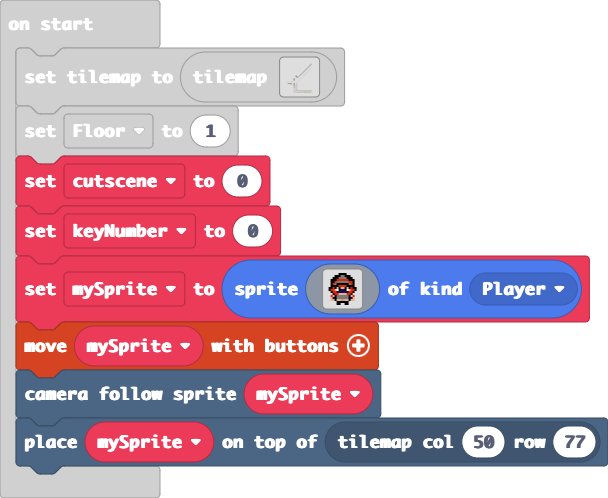
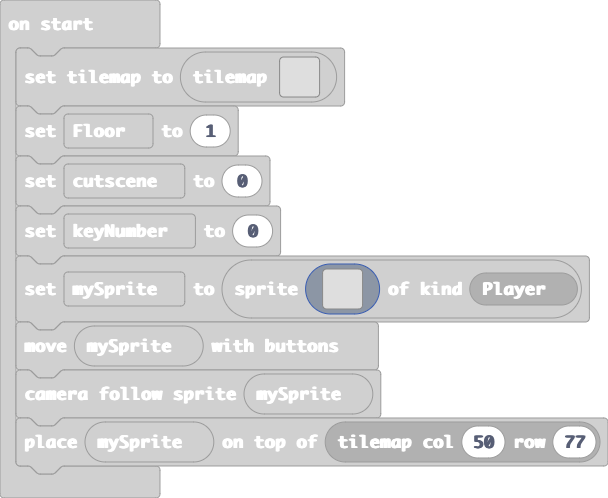
Update main.blocks, main.ts, tilemap.g.jres, tilemap.g.ts

diff --git a/tilemap.g.ts b/tilemap.g.ts
@@ -7,17 +7,7 @@ namespace myTiles {
     //% fixedInstance jres blockIdentity=images._tile
     export const tile11 = image.ofBuffer(hex``);
     //% fixedInstance jres blockIdentity=images._tile
-    export const tile16 = image.ofBuffer(hex``);
-    //% fixedInstance jres blockIdentity=images._tile
-    export const tile17 = image.ofBuffer(hex``);
-    //% fixedInstance jres blockIdentity=images._tile
-    export const tile18 = image.ofBuffer(hex``);
-    //% fixedInstance jres blockIdentity=images._tile
-    export const tile19 = image.ofBuffer(hex``);
-    //% fixedInstance jres blockIdentity=images._tile
     export const tile20 = image.ofBuffer(hex``);
-    //% fixedInstance jres blockIdentity=images._tile
-    export const tile22 = image.ofBuffer(hex``);
     //% fixedInstance jres blockIdentity=images._tile
     export const tile1 = image.ofBuffer(hex``);
     //% fixedInstance jres blockIdentity=images._tile
@@ -77,11 +67,25 @@ namespace myTiles {
     //% fixedInstance jres blockIdentity=images._tile
     export const tile38 = image.ofBuffer(hex``);
     //% fixedInstance jres blockIdentity=images._tile
+    export const tile21 = image.ofBuffer(hex``);
+    //% fixedInstance jres blockIdentity=images._tile
+    export const tile41 = image.ofBuffer(hex``);
+    //% fixedInstance jres blockIdentity=images._tile
     export const tile39 = image.ofBuffer(hex``);
     //% fixedInstance jres blockIdentity=images._tile
     export const tile40 = image.ofBuffer(hex``);
     //% fixedInstance jres blockIdentity=images._tile
-    export const tile21 = image.ofBuffer(hex``);
+    export const tile17 = image.ofBuffer(hex``);
+    //% fixedInstance jres blockIdentity=images._tile
+    export const tile22 = image.ofBuffer(hex``);
+    //% fixedInstance jres blockIdentity=images._tile
+    export const tile18 = image.ofBuffer(hex``);
+    //% fixedInstance jres blockIdentity=images._tile
+    export const tile19 = image.ofBuffer(hex``);
+    //% fixedInstance jres blockIdentity=images._tile
+    export const tile16 = image.ofBuffer(hex``);
+    //% fixedInstance jres blockIdentity=images._tile
+    export const tile42 = image.ofBuffer(hex``);
 
     helpers._registerFactory("tilemap", function(name: string) {
         switch(helpers.stringTrim(name)) {
@@ -418,7 +422,7 @@ namespace myTiles {
 . . . . . . . . . . . . . . . . 
 `, [myTiles.transparency16,myTiles.tile1,myTiles.tile3,myTiles.tile4,myTiles.tile5,myTiles.tile6,myTiles.tile11], TileScale.Sixteen);
             case "level2":
[2 lines of base64/hex data omitted]
 ............................................................
 ............................................................
 ............................................................
@@ -427,58 +431,59 @@ namespace myTiles {
 ............................................................
 ............................................................
 ............................................................
+...........................................................2
+..........................................................2.
 ............................................................
 ............................................................
-............................................................
-............................................................
-............................................................
-............................................................
-............................................................
-............................................................
-............................................................
-............................................................
-............................................................
-............................................................
-............................................................
-............................................................
-............................................................
-............................................................
-............................................................
-............................................................
-............................................................
-............................................................
-............................................................
-............................................................
-............................................................
-............................................................
-............................................................
-............................................................
-............................................................
-............................................................
-............................................................
-............................................................
-............................................................
-............................................................
-............................................................
-............................................................
-............................................................
-............................................................
-............................................................
-............................................................
-............................................................
-............................................................
-............................................................
-............................................................
-............................................................
-............................................................
-............................................................
-............................................................
-............................................................
-............................................................
-............................................................
-............................................................
-............................................................
-............................................................
+.......................................................2....
+......................................................2.....
+.....................................................22.....
+....................................................2.2.....
+...................................................2........
+..................................................2........2
+.................................................2........2.
+................................................2........2..
+...............................................2........2...
+..............................................2........2....
+.............................................2........2.....
+............................................2........2......
+...........................................2........2.......
+..........................................2........2........
+.........................................2........2.........
+........................................2........2..........
+.......................................2........2...........
+......................................2........2............
+...........22........................2........2.............
+222.....222..22.....................2........2..............
+...............2...................2........2...............
+................2.................2........2................
+.................2...............2........2.................
+..................2.............2........2..................
+...................2...........2........2...................
+....................2.........2........2....................
+.....................2.......2........2.....................
+............................2........2......................
+...........................2........2.......................
+........................2.2........2........................
+.........................2........2.........................
+...............22................2..........................
+...............22...............2...........................
+...............22..............2............................
+...............22.............2.............................
+...............22............2..............................
+...............22...........2...............................
+...............22..........2................................
+.22......22....22.........2.................................
+.22......22..............2..................................
+........................2...................................
+.......................2....................................
+......................2.....................................
+....22222......22.....2.....................................
+2222............2.....2.....................................
+................2.....2.....................................
+................2.....2.....................................
+................2.....2.....................................
+..........22222.2.....2.....................................
 ................2.....2.....................................
 ................2.....2.....................................
 ................2.....2.....................................
@@ -492,14 +497,13 @@ namespace myTiles {
 ................2.....2.....................................
 ................2.....2.....................................
 ................2.....2.....................................
-................2.....2.....................................
-................2.....2.....................22.........22...
-................2.....2222222222222222222222..222222222..222
-................2...........................................
-................2...........................................
-................2...........................................
-................2.....22222222222222222222222222222222222222
-`, [myTiles.transparency16,myTiles.tile9,myTiles.tile2,myTiles.tile3,myTiles.tile4,myTiles.tile7,myTiles.tile11,myTiles.tile12,myTiles.tile14,myTiles.tile16,myTiles.tile17,myTiles.tile18,myTiles.tile19,myTiles.tile22,myTiles.tile23,myTiles.tile26,myTiles.tile27,myTiles.tile28,myTiles.tile34,myTiles.tile5,myTiles.tile8,myTiles.tile10,myTiles.tile25,myTiles.tile29,myTiles.tile30,myTiles.tile31,myTiles.tile32,myTiles.tile21,myTiles.tile24,myTiles.tile36,myTiles.tile37,myTiles.tile38,myTiles.tile39,myTiles.tile40], TileScale.Sixteen);
+...............2......2............22.........22.......22...
+..............2.......2222222222222..222222222..2222222..222
+.............2..............................................
+.............2..............................................
+.............2..............................................
+.............2........22222222222222222222222222222222222222
+`, [myTiles.transparency16,myTiles.tile9,myTiles.tile2,myTiles.tile3,myTiles.tile4,myTiles.tile7,myTiles.tile11,myTiles.tile12,myTiles.tile14,myTiles.tile16,myTiles.tile18,myTiles.tile19,myTiles.tile23,myTiles.tile26,myTiles.tile27,myTiles.tile28,myTiles.tile34,myTiles.tile5,myTiles.tile8,myTiles.tile10,myTiles.tile25,myTiles.tile29,myTiles.tile30,myTiles.tile31,myTiles.tile32,myTiles.tile21,myTiles.tile24,myTiles.tile36,myTiles.tile37,myTiles.tile38,myTiles.tile39,myTiles.tile40,myTiles.tile35,myTiles.tile6,myTiles.tile41,myTiles.tile42], TileScale.Sixteen);
         }
         return null;
     })
@@ -511,18 +515,8 @@ namespace myTiles {
             case "tile2":return tile2;
             case "myTile9":
             case "tile11":return tile11;
-            case "myTile14":
-            case "tile16":return tile16;
-            case "myTile15":
-            case "tile17":return tile17;
-            case "myTile16":
-            case "tile18":return tile18;
-            case "myTile17":
-            case "tile19":return tile19;
             case "myTile18":
             case "tile20":return tile20;
-            case "myTile20":
-            case "tile22":return tile22;
             case "myTile":
             case "tile1":return tile1;
             case "myTile21":
@@ -581,12 +575,26 @@ namespace myTiles {
             case "tile37":return tile37;
             case "myTile36":
             case "tile38":return tile38;
+            case "myTile19":
+            case "tile21":return tile21;
+            case "myTile39":
+            case "tile41":return tile41;
             case "myTile37":
             case "tile39":return tile39;
             case "myTile38":
             case "tile40":return tile40;
-            case "myTile19":
-            case "tile21":return tile21;
+            case "myTile15":
+            case "tile17":return tile17;
+            case "myTile20":
+            case "tile22":return tile22;
+            case "myTile16":
+            case "tile18":return tile18;
+            case "myTile17":
+            case "tile19":return tile19;
+            case "myTile14":
+            case "tile16":return tile16;
+            case "myTile40":
+            case "tile42":return tile42;
         }
         return null;
     })

diff --git a/main.ts b/main.ts
@@ -66,17 +66,17 @@ keyNumber = 0
 mySprite = sprites.create(img`
     . . . . . . f f f f . . . . . . 
     . . . . f f f 2 2 f f f . . . . 
-    . . . f f f 2 2 2 2 f f f . . . 
-    . . f f f e e e e e e f f f . . 
-    . . f f e 2 2 2 2 2 2 e e f . . 
-    . . f e 2 f f f f f f 2 e f . . 
-    . . f f f f e e e e f f f f . . 
-    . f f e f b f 4 4 f b f e f f . 
-    . f e e 4 1 f d d f 1 4 e e f . 
-    . . f e e d d d d d d e e f . . 
-    . . . f e e 4 4 4 4 e e f . . . 
-    . . e 4 f 2 2 2 2 2 2 f 4 e . . 
-    . . 4 d f 2 2 2 2 2 2 f d 4 . . 
+    . . . f f f 2 3 2 2 f f f . . . 
+    . . f f f 6 6 6 6 6 6 f f f . . 
+    . . f f 6 2 2 2 2 2 2 6 6 f . . 
+    . . f 6 2 f f f f f f 2 6 f . . 
+    . . f f f f 6 6 6 6 f f f f . . 
+    . f f 6 f 3 f 4 4 f 3 f 6 f f . 
+    . f 6 6 4 1 f 3 3 f 1 4 6 6 f . 
+    . . f 6 6 3 3 3 3 3 3 6 6 f . . 
+    . . . f 6 6 4 4 4 4 6 6 f . . . 
+    . . 6 4 f 2 2 2 2 2 2 f 4 6 . . 
+    . . 4 3 f 2 2 2 2 2 2 f 3 4 . . 
     . . 4 4 f 4 4 5 5 4 4 f 4 4 . . 
     . . . . . f f f f f f . . . . . 
     . . . . . f f . . f f . . . . . 
